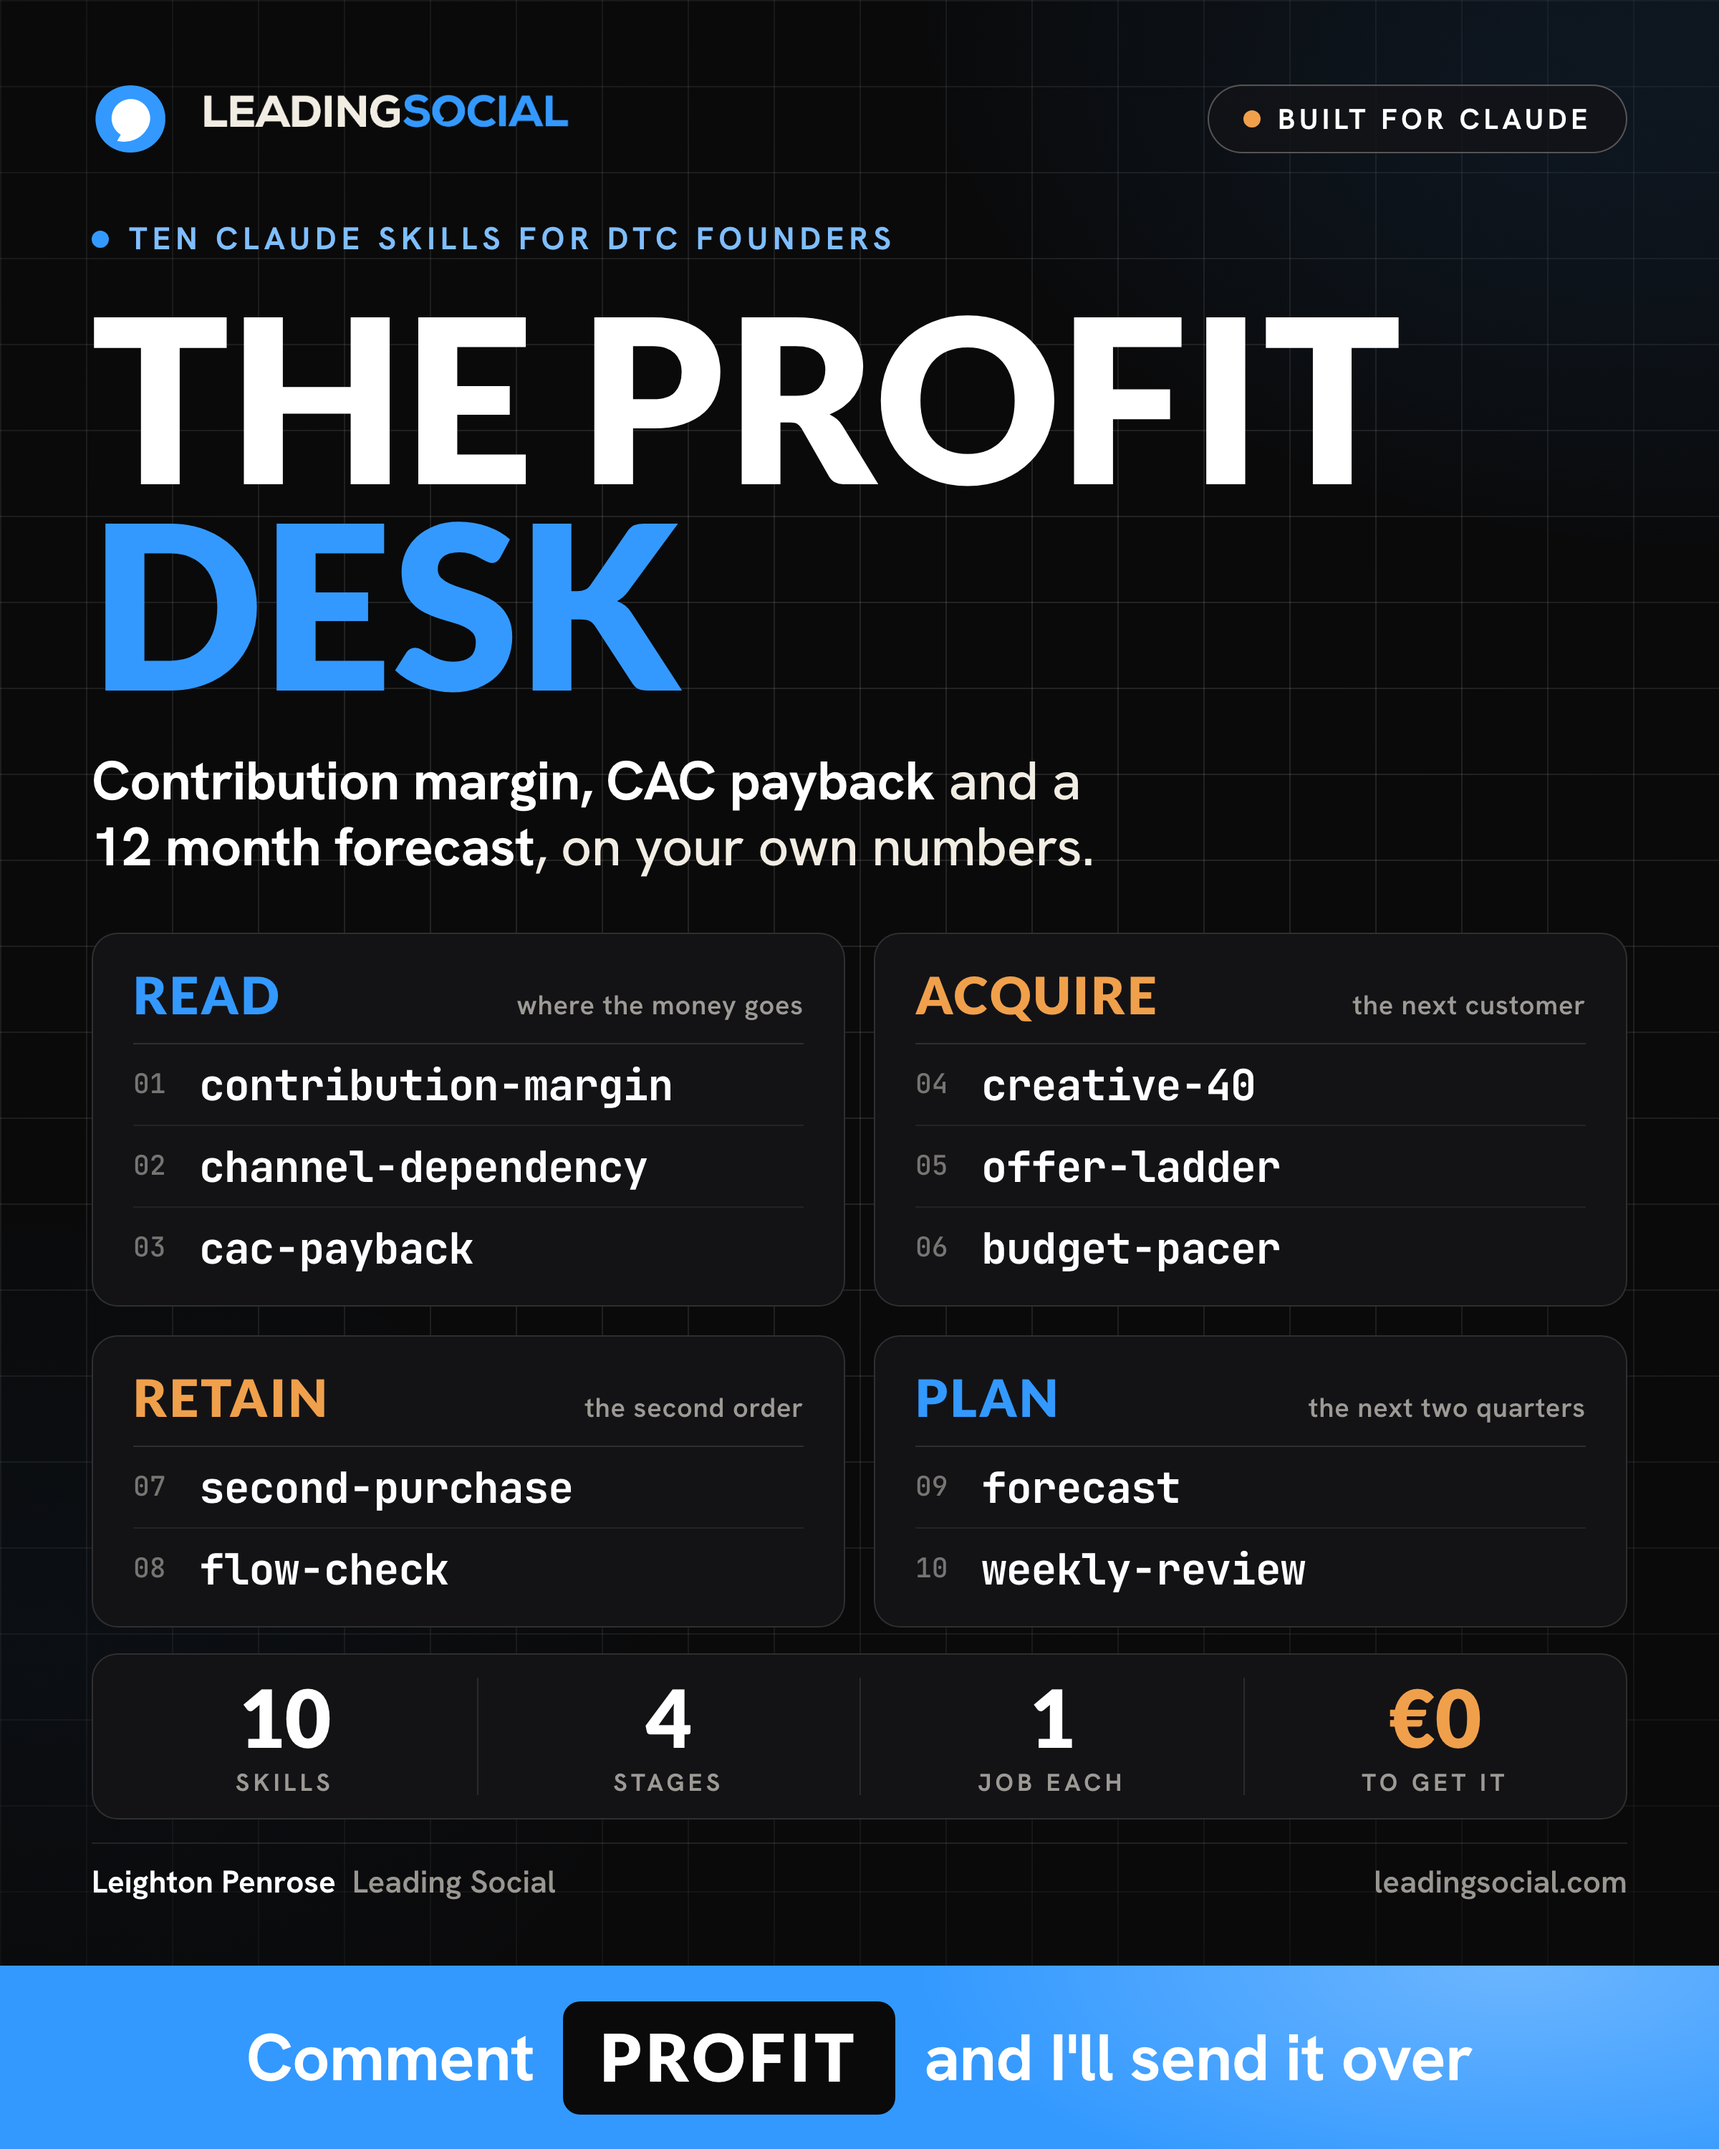
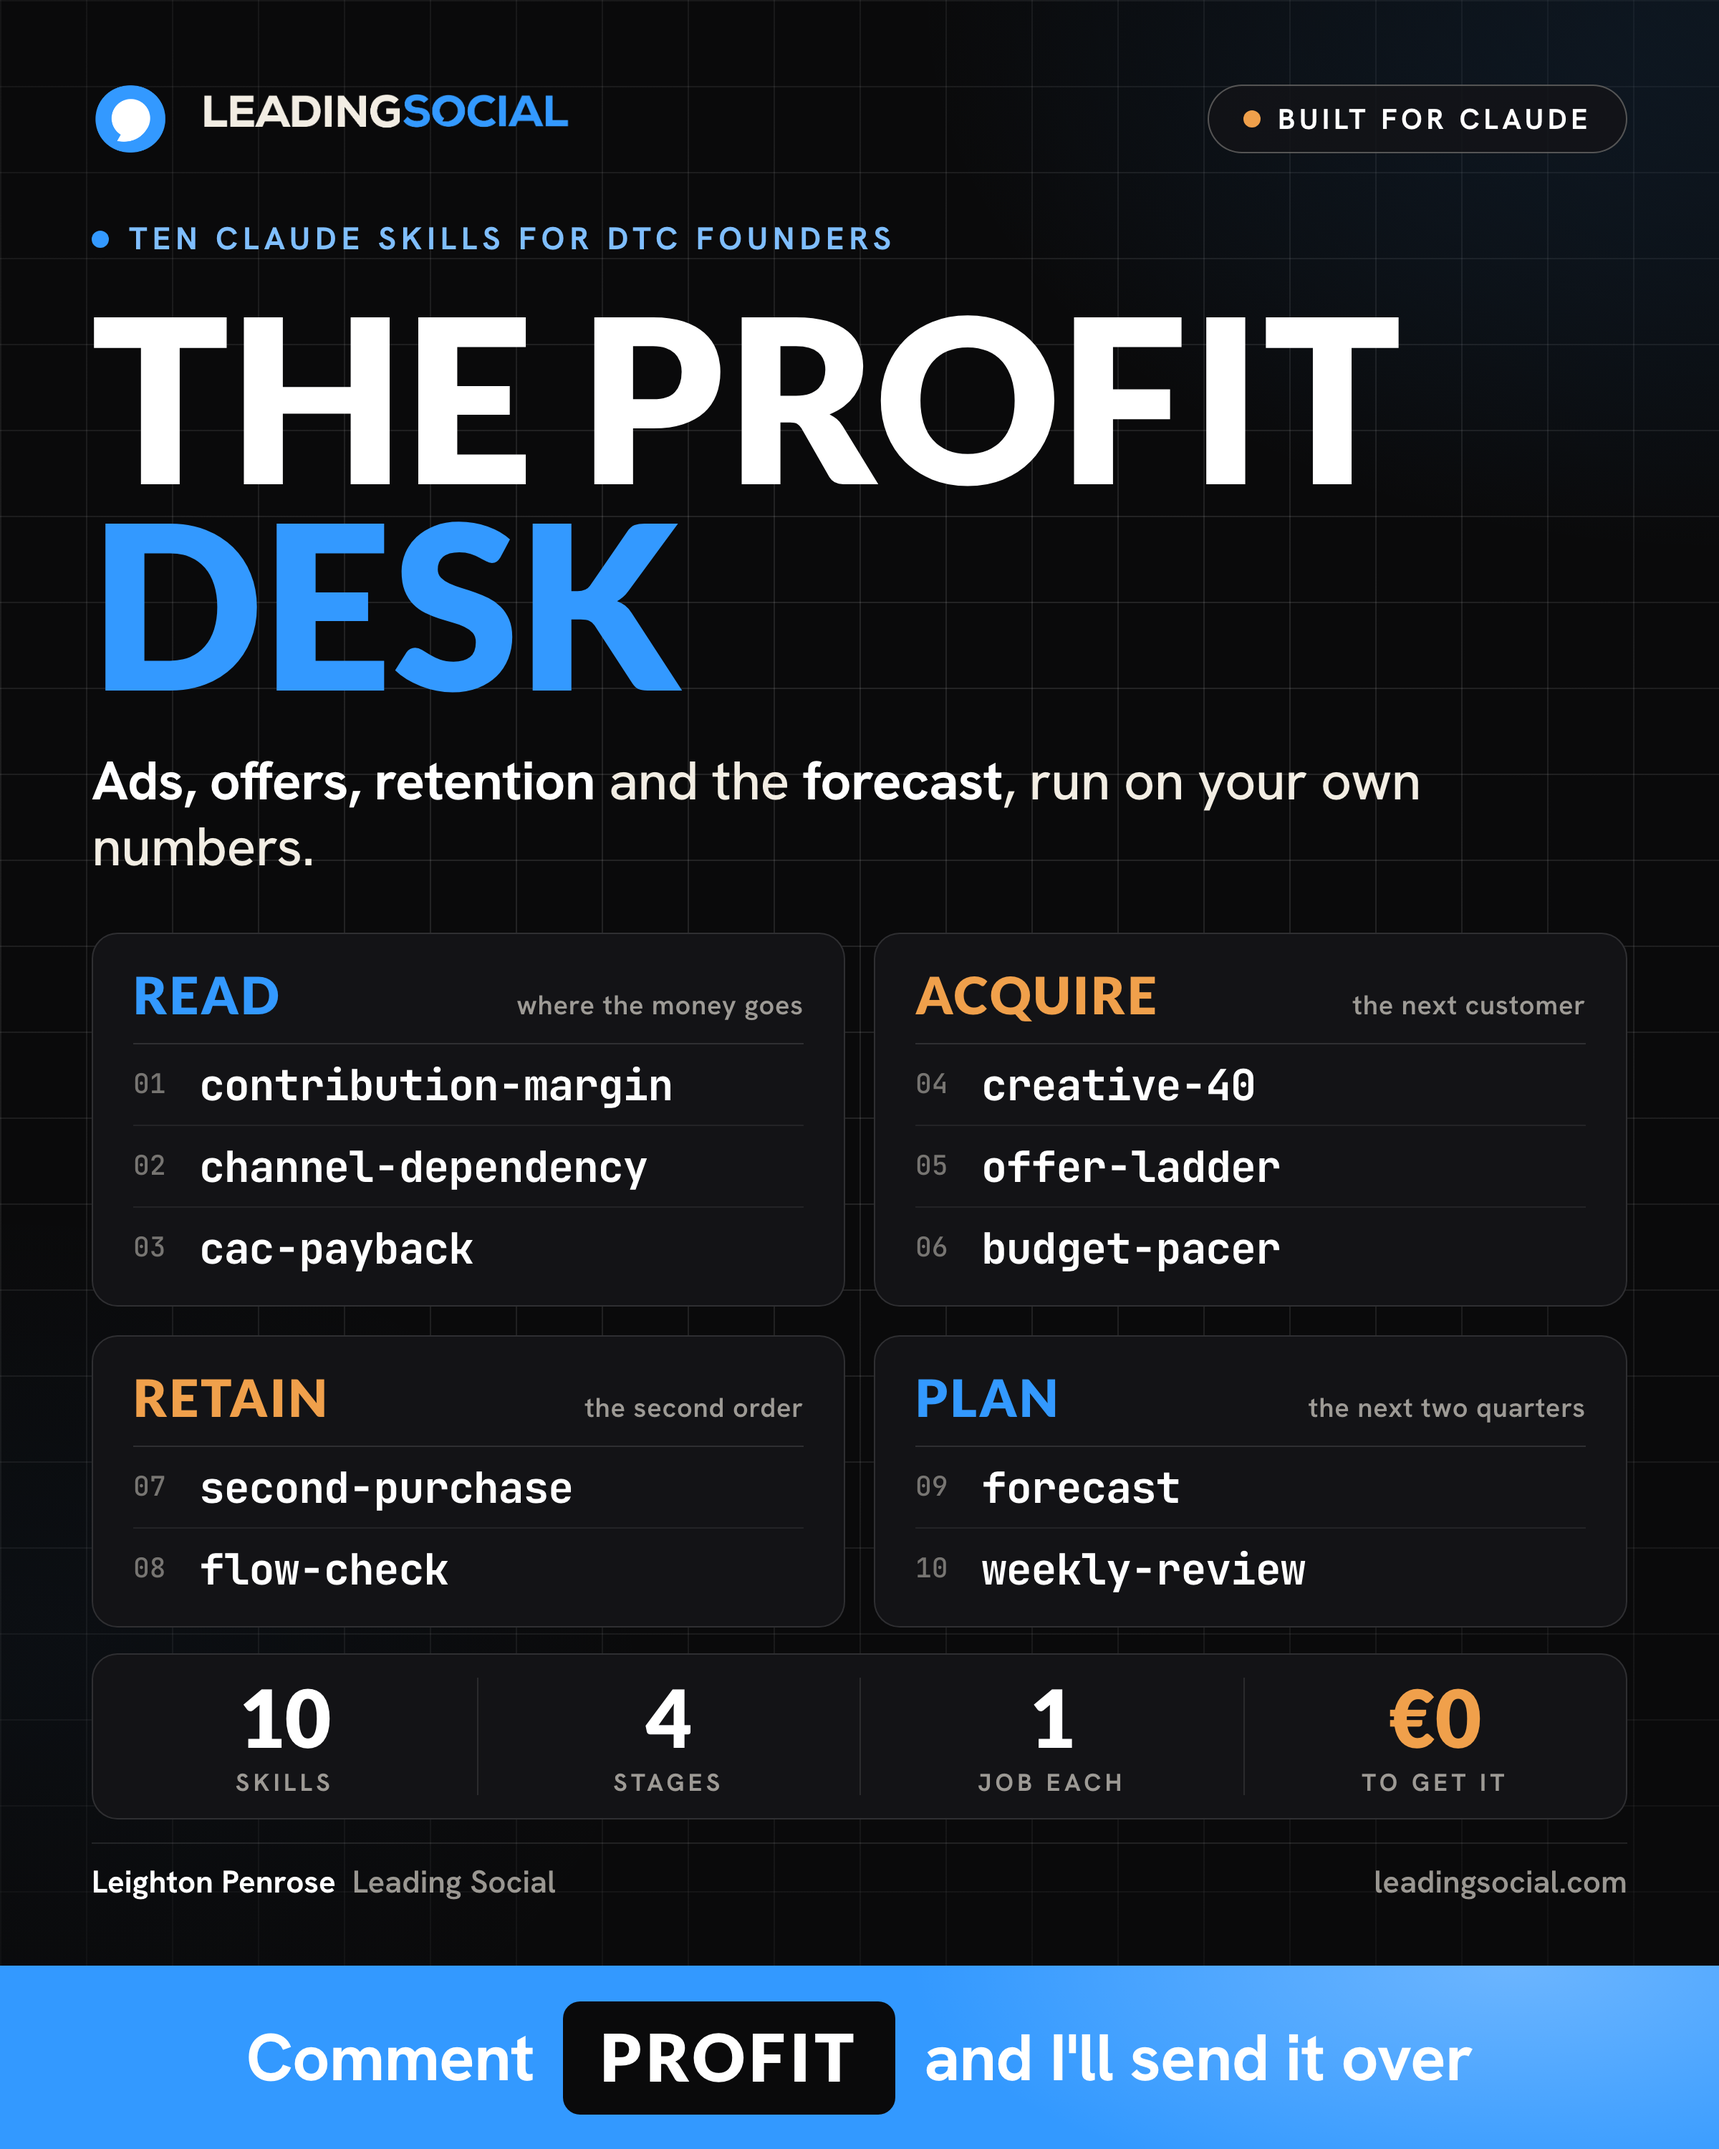
shared/leading-social: Profit Desk framed as the full kit

Changed region(s): [[0.0312, 0.341, 0.8125, 0.403]]

diff --git a/shared/leading-social/index.html b/shared/leading-social/index.html
@@ -37,6 +37,7 @@
   </div>
   <aside class="ls source-card" aria-label="What the sample is built from">
     <img class="ls-logo" src="assets/ls-logo-ondark.png" alt="Leading Social" width="900" height="133">
+    <span class="ls-eyebrow">Built from your own words</span>
     <div class="source-stats">
       <div><b>51</b><span>YouTube videos</span></div>
       <div><b>85k</b><span>words on camera</span></div>
@@ -70,6 +71,9 @@
     <article class="vcard"><span class="n">06</span><h3>Two registers, kept apart</h3>
       <blockquote><span>We're bringing an intern in for Q4!!</span><cite>Your post, August</cite></blockquote>
       <p>Profit posts are calm, with zero emoji. People posts carry the warmth.</p></article>
+  </div>
+  <div class="kept"><strong>Kept out of your profit posts</strong>
+    <ul><li>emoji and “!!”</li><li>guru words</li><li>$ where you write €</li><li>hashtags and dashes</li></ul>
   </div>
 </section>
 
@@ -414,6 +418,7 @@ Comment BFCM and I'll send the planner.</div>
 <button class="ls-more" type="button" aria-expanded="false" aria-controls="car-caption" data-more="Read the full caption" data-less="Show less">Read the full caption</button></div>
 <a class="ls-btn ghost" href="downloads/leading-social-bfcm-carousel.pdf">Open the PDF <span aria-hidden="true">↗</span></a>
 <a class="ls-btn ghost" href="downloads/leading-social-bfcm-planner.pdf">Open the planner <span aria-hidden="true">↗</span></a>
+      <p class="stage-note">The last slide offers a planner by keyword, so I built the planner too. One page.</p>
     </div>
   </div>
 </section>
@@ -433,7 +438,11 @@ Comment BFCM and I'll send the planner.</div>
       <div class="lm-copy">
         <span class="badge">A · Keyword <kbd>AUDIT</kbd></span>
         <h3>The Ecommerce Profit Audit</h3>
-        <p>Founder types their numbers. Sees true CAC, MER, payback and the red flags from your videos.</p>
+        <p>A three-minute self-service audit. The founder types their numbers and sees what a buyer of the business would see: true CAC, MER, payback and the red flags from your videos.</p>
+        <dl>
+          <dt>Who it is for</dt><dd>Any founder of a €3m to €30m brand, on a phone, with nothing to install.</dd>
+          <dt>Where it stands</dt><dd><b>Working, live just below.</b> It ends on a call with Leading Social.</dd>
+        </dl>
       </div>
     </article>
     <article class="lm">
@@ -441,15 +450,19 @@ Comment BFCM and I'll send the planner.</div>
       <div class="lm-copy">
         <span class="badge">B · Keyword <kbd>PROFIT</kbd></span>
         <h3>The Profit Desk</h3>
-        <p>Three Claude skills working now: contribution margin, CAC payback and the 12 month forecast. Paste figures, get one table back with arithmetic shown.</p>
+        <p>Ten Claude skills for running a DTC brand, one for each job you teach on the channel: creative testing, offers, budget pacing, the second purchase, email flows, the forecast and the weekly review. The founder pastes their own numbers and gets a table back.</p>
+        <dl>
+          <dt>Who it is for</dt><dd>Any DTC founder or marketing lead who already works in Claude.</dd>
+          <dt>Where it stands</dt><dd><b>Three of the ten are working:</b> contribution margin, CAC payback and the 12 month forecast.</dd>
+        </dl>
       </div>
     </article>
   </div>
 
-  <div class=”live” id=”audit”>
-    <div class=”live-head”>
-      <div><h3>The audit, live.</h3></div>
-      <a class=”inline-link” href=”profit-audit/index.html” target=”_blank” rel=”noopener”>Open full screen <span aria-hidden=”true”>↗</span></a>
+  <div class="live" id="audit">
+    <div class="live-head">
+      <div><h3>The audit, live.</h3><p>Press <b>“See it with an example brand”</b> and step through to the result.</p></div>
+      <a class="inline-link" href="profit-audit/index.html" target="_blank" rel="noopener">Open full screen <span aria-hidden="true">↗</span></a>
     </div>
     <div class="frame"><div class="browser-bar" aria-hidden="true"><span></span><span></span><span></span><small>The Ecommerce Profit Audit · Leading Social</small></div>
       <iframe src="profit-audit/index.html" title="The Ecommerce Profit Audit, live"></iframe>
@@ -457,12 +470,62 @@ Comment BFCM and I'll send the planner.</div>
     <p class="print-only note">The audit is interactive. Open profit-audit/index.html from this folder to try it.</p>
   </div>
 
+  <div class="ls peek" id="profit-desk">
+    <div class="peek-top">
+      <div class="peek-copy">
+        <span class="ls-eyebrow orange">Inside The Profit Desk</span>
+        <h3>The practice run: <em>Ballyfen Nutrition</em></h3>
+        <p>A fictional €3m Irish supplement store that ships with the kit. This is what the founder sees on the first run.</p>
+      </div>
+      <div class="tiles">
+        <div class="tile hi"><small>True CAC</small><b>€33.85</b><span>against €27.69 on ads only</span></div>
+        <div class="tile"><small>CAC payback</small><b><i>DAY</i>34</b><span>about, inside your “healthy” band</span></div>
+        <div class="tile"><small>MER</small><b>3.41</b><span>against a dashboard ROAS of 4.17</span></div>
+      </div>
+    </div>
+    <details>
+      <summary><span>Peek at a real skill file <code>cac-payback/SKILL.md</code></span><span class="plus" aria-hidden="true">+</span></summary>
+      <pre tabindex="0"># The Profit Desk, 3 of 10: CAC payback
+
+## What this does
+
+Leighton Penrose, on the number his team checks before telling any brand to raise spend: "Your CAC payback is how long it takes to get your money back after you spend that on ads. You send money today, when does the cash come back in?" And on why it outranks ROAS: "ROAS doesn't tell you when the cash comes in, how much working capital you need, how exposed you are. Payback period answers that instantly."
+
+This skill places your payback on your own cohort. It builds CAC the way he counts it, compares it with the gross profit a customer has produced by day 0, 30, 60, 90, 180 and 365, names the window where the line crosses, and reads the result against the bands he gives on camera.
+
+**The line only this skill produces:** the day window in which one real cohort of your customers repaid a CAC that includes agency, creator, content and tool costs, with the euro gap at every window before it.
+
+[...]
+
+**Refusal 3, no cohort, no payback beyond the first order.** Without item 5 the skill prints the day 0 line only: CAC against gross profit on the first order. It will not assume a repeat rate, a subscription length or a category retention curve.
+
+```
+[NEEDS: cumulative orders per customer at day 30, 60, 90, 180, 365 for one cohort]
+Computable: CAC, first-order gross profit, first-order gap.
+Not computable: payback window, CAC to LTV multiples, cash carried.
+```
+
+[...]
+
+**Step 5, read the band.** His bands, word for word from the CAC payback video:
+
+| payback | his read |
+|---|---|
+| under 30 days | "you're in a really strong position" |
+| 30 to 60 days | "you're healthy. Most e-commerce brands are sitting around here" |
+| 60 to 90 days | "definitely acceptable, but you're going to just need to plan a bit more" |
+| beyond 90 days | "should make you a little bit cautious" |
+| over 120 days | "you're effectively financing the growth" |</pre>
+    </details>
+    <p class="fine">Excerpt. The bands are your words from the CAC payback video.</p>
+  </div>
 </section>
 
 <!-- 6. micro proposal -->
 <section class="sec wrap" id="plan">
-  <span class="kicker">The plan</span>
+  <span class="kicker">What I run for Leading Social</span>
   <h2>October to December, run for you.</h2>
+  <p class="strap">Brands pick their new agency for January and February, so <b>October to December is when the calls get booked</b>.</p>
 
   <div class="cols3">
     <article class="col"><span class="stage-number">01 / Content</span><h3>Four to five posts a week, from your videos.</h3><p><strong>I write, design and publish from your profile.</strong> The source is your videos, plus a five-minute voice note on Fridays about what you saw that week.</p></article>
@@ -470,6 +533,14 @@ Comment BFCM and I'll send the planner.</div>
     <article class="col"><span class="stage-number">03 / Outreach and conversations</span><h3>Warm first, then direct.</h3><p>Warm outreach goes to people who engage with your posts and fit your buyer. Direct outreach goes to founders of <strong>€3m to €30m Shopify brands in Ireland, the UK and the US</strong>. I handle every reply through to the booked call.</p></article>
   </div>
 
+  <div class="managed">
+    <div><h3>In month one, you approve everything.</h3><p>Every post and every first message goes past you before it goes out.</p></div>
+    <ul>
+      <li><i></i><div>Review the content and first messages<small>Everything is visible in the control panel.</small></div></li>
+      <li><i></i><div>A voice note on Fridays<small>Five minutes on what you are seeing in the industry.</small></div></li>
+      <li><i></i><div>Your sales calls<small>You get the conversation and buyer context beforehand.</small></div></li>
+    </ul>
+  </div>
 
   <div class="offer" id="start">
     <article class="plan">
@@ -490,12 +561,15 @@ Comment BFCM and I'll send the planner.</div>
     <article class="expert" id="ivan">
       <img src="assets/ivan.jpg" alt="Ivan Manfredi" width="672" height="900" loading="lazy" decoding="async">
       <div class="expert-copy">
+        <span class="kicker">Who does the work</span>
         <h3>You work directly with me.</h3>
+        <p>I build the strategy, create the content and run the conversations that bring relevant buyers to your calendar. One person, in your Slack.</p>
         <div class="expert-nums"><div><strong>$2M</strong><span>client revenue generated</span></div><div><strong>$50M</strong><span>pipeline built</span></div></div>
-        <p class="expert-cap"><strong>Ivan Manfredi.</strong></p>
+        <p class="expert-cap"><strong>Ivan Manfredi.</strong> I work with up to 10 clients at a time.</p>
       </div>
     </article>
   </div>
+  <p class="onboard"><b>On the onboarding call</b> we connect your LinkedIn (two minutes, no password shared), lock the target list for the outreach, and I show you the first week scheduled.</p>
 </section>
 
 <!-- 7. close -->
